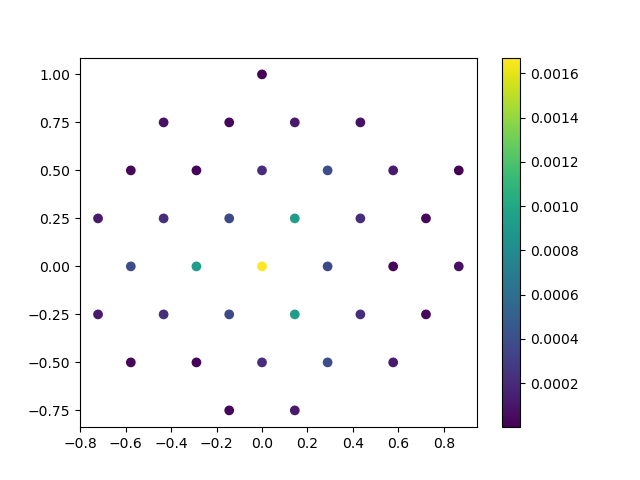
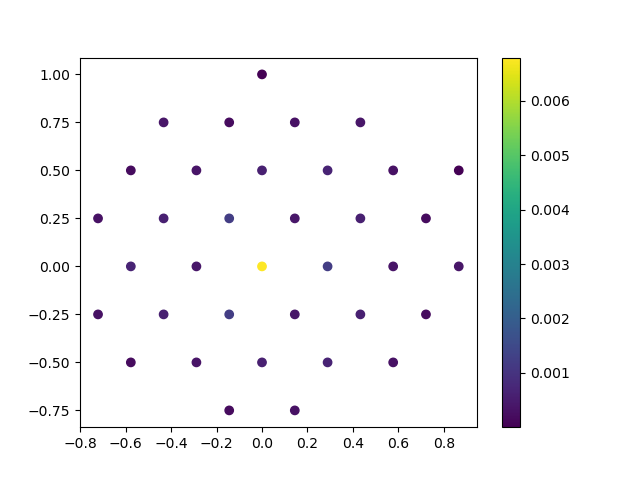
imposing the antiunitary particle hole

diff --git a/Mods/Dispersion.py b/Mods/Dispersion.py
@@ -411,7 +411,7 @@ class Ham_BM():
 
         return  mat@psi
     
-    def Cs_psi(self, psi):
+    def Csub_psi(self, psi):
         
         pauli0=np.array([[1,0],[0,1]])
         paulix=np.array([[0,1],[1,0]])
@@ -524,9 +524,11 @@ class Dispersion():
             E1,wave1=self.hmin.eigens(-self.KX1bz[l],-self.KY1bz[l],self.nbands)
             Ene_valley_min_a=np.append(Ene_valley_min_a,E1)
             wave1m=self.gauge_fix( wave1)
-            psi_plus_a.append(wave1m)
+            psi_min_a.append(wave1m)
             
-            self.checkchiral(wave1p, wave1m)
+            # self.check_Cstar(wave1p, self.impose_Cstar(wave1p,l, self.Npoi1bz))
+            swm1=self.impose_Cstar(wave1p,l, self.Npoi1bz)
+            print(la.det(np.abs(np.conj(swm1.T)@wave1m)))
             
         #TODO: construct minus wavefunctions from plus wavef 
         #test gaugefixing for this procedure
@@ -659,7 +661,7 @@ class Dispersion():
         
         #using C sublattice to fix an additional relative minus sign
         testw=np.array(wave1)
-        testw2=self.hpl.Cs_psi(testw)
+        testw2=self.hpl.Csub_psi(testw)
         
         Sewing2=np.real((np.conj(testw.T)@testw2))
         # print(Sewing2)
@@ -667,22 +669,36 @@ class Dispersion():
         #multiplying the sign to the upper half of the spectrum
         wave1[:,ihalf:]=wave1[:,ihalf:]*np.sign(Sewing2[0,1])
         
-        #if we are in the chiral limit the second sewing matrix is a rep of chiral symmetry
+        #if we are in the chiral limit the second sewing matrix is a rep of chiral sublattice symmetry
         #should give a paulix in the basis that we chose
         if self.hpl.kappa==0.0:
-            Sewing2=np.real( np.conj(wave1.T)@(self.hpl.Cs_psi(wave1)) )
+            Sewing2=np.real( np.conj(wave1.T)@(self.hpl.Csub_psi(wave1)) )
             paulix=np.array([[0,1],[1,0]])
             if np.abs(np.mean(Sewing2-paulix))>1e-6:
-                print("chiral failed")
+                print("chiral sublattice failed")
                 print(Sewing2)
     
         
         return wave1
     
-    def imposechiral(self, wave1):
+    def impose_Cstar(self, wave1,k, Npoi):
+        #antiunitary particle hole connecting different valleys
+        II=np.eye(self.Dim)
         
-        return None
-    def checkchiral(self, wave1, wave2):
+        pauli0=np.array([[1,0],[0,1]])
+        paulix=np.array([[0,1],[1,0]])
+        pauliy=np.array([[0,-1j],[1j,0]])
+        pauliz=np.array([[1,0],[0,-1]])
+        
+        op=np.kron(pauliy,np.kron(II, paulix))
+        wavem=op@wave1[ : , ::-1]
+        # if k< np.ceil(Npoi/2):
+        #     wavem=op@wave1[ : , ::-1]
+        
+        return wavem
+    
+    
+    def check_Cstar(self, wave1, wave2):
         II=np.eye(self.Dim)
         
         pauli0=np.array([[1,0],[0,1]])
@@ -1567,22 +1583,22 @@ def main() -> int:
     
 
     #JY params 
-    hbvf = (3/(2*np.sqrt(3)))*2.7; # eV
-    hvkd=hbvf*q
-    kappa=0.75
-    up = 0.105; # eV
-    u = kappa*up; # eV
-    alpha=up/hvkd
-    alph=alpha
-
-    #Andrei params 
-    # hbvf = 19.81/(8*np.pi/3); # eV
+    # hbvf = (3/(2*np.sqrt(3)))*2.7; # eV
     # hvkd=hbvf*q
-    # kappa=1
-    # up = 0.110; # eV
+    # kappa=0.75
+    # up = 0.105; # eV
     # u = kappa*up; # eV
     # alpha=up/hvkd
     # alph=alpha
+
+    #Andrei params 
+    hbvf = 19.81/(8*np.pi/3); # eV
+    hvkd=hbvf*q
+    kappa=1
+    up = 0.110; # eV
+    u = kappa*up; # eV
+    alpha=up/hvkd
+    alph=alpha
     
     print("hbvf is ..",hbvf )
     print("q is...", q)
